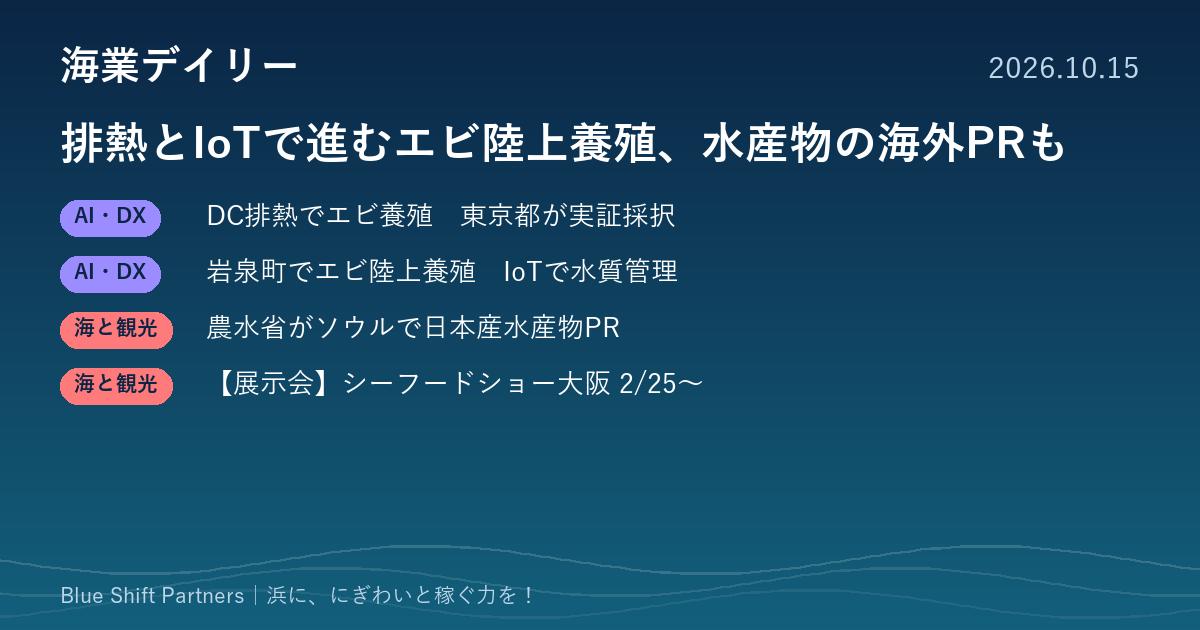
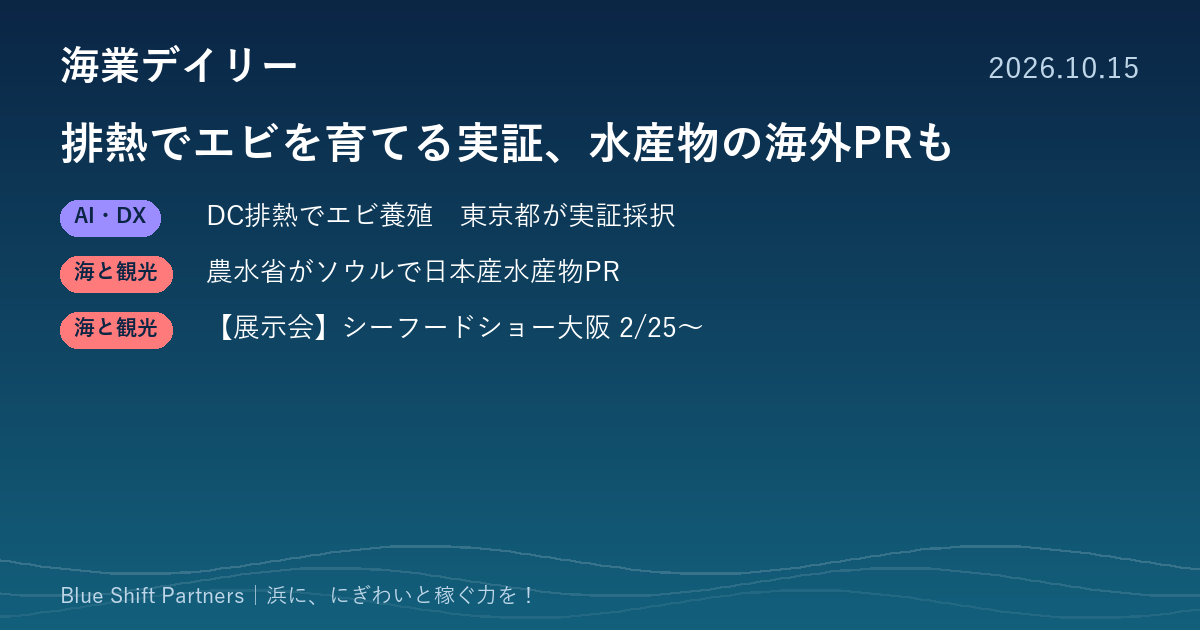
海業デイリー 2026-10-15号を公開（10/10号と重複の記事を削除）

diff --git a/reports/2026-10-15.html b/reports/2026-10-15.html
@@ -1,15 +1,15 @@
 <!doctype html>
 <html lang="ja"><head><meta charset="utf-8">
 <meta name="viewport" content="width=device-width,initial-scale=1">
-<title>排熱とIoTで進むエビ陸上養殖、水産物の海外PRも｜海業デイリー｜ブルーシフト・パートナーズ</title>
-<meta name="description" content="東京都がデータセンターの排熱をエビの陸上養殖に生かす実証を採択し、岩手県岩泉町では漁協の施設でエビ養殖の比較実証が進んでいます。農林水産省はソウルの交流イベントに初めて出展して日本産水産物をPRしました。来年2月のシーフードショー大阪に向けた出展募集の動きもお伝えします。">
+<title>排熱でエビを育てる実証、水産物の海外PRも｜海業デイリー｜ブルーシフト・パートナーズ</title>
+<meta name="description" content="東京都がデータセンターの排熱をエビの陸上養殖に生かす実証を採択しました。農林水産省はソウルの交流イベントに初めて出展して日本産水産物をPRしています。来年2月のシーフードショー大阪に向けた出展募集の動きもお伝えします。">
 <link rel="canonical" href="https://blueshift-partners.com/reports/2026-10-15.html">
-<meta property="og:title" content="排熱とIoTで進むエビ陸上養殖、水産物の海外PRも｜海業デイリー｜ブルーシフト・パートナーズ"><meta property="og:description" content="東京都がデータセンターの排熱をエビの陸上養殖に生かす実証を採択し、岩手県岩泉町では漁協の施設でエビ養殖の比較実証が進んでいます。農林水産省はソウルの交流イベントに初めて出展して日本産水産物をPRしました。来年2月のシーフードショー大阪に向けた出展募集の動きもお伝えします。"><meta property="og:image" content="https://blueshift-partners.com/img/2026-10-15.png">
+<meta property="og:title" content="排熱でエビを育てる実証、水産物の海外PRも｜海業デイリー｜ブルーシフト・パートナーズ"><meta property="og:description" content="東京都がデータセンターの排熱をエビの陸上養殖に生かす実証を採択しました。農林水産省はソウルの交流イベントに初めて出展して日本産水産物をPRしています。来年2月のシーフードショー大阪に向けた出展募集の動きもお伝えします。"><meta property="og:image" content="https://blueshift-partners.com/img/2026-10-15.png">
 <meta property="og:type" content="article">
 <meta property="og:url" content="https://blueshift-partners.com/reports/2026-10-15.html">
 <meta property="og:site_name" content="ブルーシフト・パートナーズ"><meta property="og:locale" content="ja_JP">
 <meta name="twitter:card" content="summary_large_image">
-<script type="application/ld+json">{"@context": "https://schema.org", "@type": "NewsArticle", "headline": "排熱とIoTで進むエビ陸上養殖、水産物の海外PRも", "description": "東京都がデータセンターの排熱をエビの陸上養殖に生かす実証を採択し、岩手県岩泉町では漁協の施設でエビ養殖の比較実証が進んでいます。農林水産省はソウルの交流イベントに初めて出展して日本産水産物をPRしました。来年2月のシーフードショー大阪に向けた出展募集の動きもお伝えします。", "datePublished": "2026-10-15", "dateModified": "2026-10-15", "image": ["https://blueshift-partners.com/img/2026-10-15.png"], "author": {"@type": "Person", "name": "小櫃 博"}, "publisher": {"@type": "Organization", "name": "ブルーシフト・パートナーズ", "logo": {"@type": "ImageObject", "url": "https://blueshift-partners.com/img/logo.png"}}, "mainEntityOfPage": "https://blueshift-partners.com/reports/2026-10-15.html", "inLanguage": "ja"}</script>
+<script type="application/ld+json">{"@context": "https://schema.org", "@type": "NewsArticle", "headline": "排熱でエビを育てる実証、水産物の海外PRも", "description": "東京都がデータセンターの排熱をエビの陸上養殖に生かす実証を採択しました。農林水産省はソウルの交流イベントに初めて出展して日本産水産物をPRしています。来年2月のシーフードショー大阪に向けた出展募集の動きもお伝えします。", "datePublished": "2026-10-15", "dateModified": "2026-10-15", "image": ["https://blueshift-partners.com/img/2026-10-15.png"], "author": {"@type": "Person", "name": "小櫃 博"}, "publisher": {"@type": "Organization", "name": "ブルーシフト・パートナーズ", "logo": {"@type": "ImageObject", "url": "https://blueshift-partners.com/img/logo.png"}}, "mainEntityOfPage": "https://blueshift-partners.com/reports/2026-10-15.html", "inLanguage": "ja"}</script>
 <link rel="icon" href="../img/favicon-32.png" sizes="32x32">
 <link rel="apple-touch-icon" href="../img/favicon-180.png">
 <link rel="stylesheet" href="../style.css">
@@ -21,23 +21,15 @@
 </div></header>
 <nav class="tabs"><div class="in"><a href="../index.html" class="">ホーム</a><a href="../about.html" class="">オフィス紹介</a><a href="../services.html" class="">サービス内容</a><a href="../works.html" class="">活動実績</a><a href="../note.html" class="">note</a><a href="../contact.html" class="">お問い合わせ</a><a href="../hiro.html" class="">HIRO経営コンサルティング</a></div></nav>
 
-<main><p class="src">2026.10.15</p><h1 class="page">排熱とIoTで進むエビ陸上養殖、水産物の海外PRも</h1>
-<img class="card" src="../img/2026-10-15.png" alt="排熱とIoTで進むエビ陸上養殖、水産物の海外PRも">
-<p class="lead">東京都がデータセンターの排熱をエビの陸上養殖に生かす実証を採択し、岩手県岩泉町では漁協の施設でエビ養殖の比較実証が進んでいます。農林水産省はソウルの交流イベントに初めて出展して日本産水産物をPRしました。来年2月のシーフードショー大阪に向けた出展募集の動きもお伝えします。</p>
+<main><p class="src">2026.10.15</p><h1 class="page">排熱でエビを育てる実証、水産物の海外PRも</h1>
+<img class="card" src="../img/2026-10-15.png" alt="排熱でエビを育てる実証、水産物の海外PRも">
+<p class="lead">東京都がデータセンターの排熱をエビの陸上養殖に生かす実証を採択しました。農林水産省はソウルの交流イベントに初めて出展して日本産水産物をPRしています。来年2月のシーフードショー大阪に向けた出展募集の動きもお伝えします。</p>
 <section class="item">
 <span class="chip" style="background:#9B8CFF">水産×AI・DX</span>
 <h3>東京都、データセンターの排熱でバナメイエビを育てる陸上養殖の実証を採択</h3>
 <p>東京都環境局は10月6日、データセンターの排熱など未利用熱の活用をめざす「スタートアップによる未利用熱活用促進事業」で3件の協業プロジェクトを採択したと発表しました。その1件が、IMTエンジニアリングとNTTドコモビジネスによる「排熱活用型陸上養殖システムの構築」で、排熱を加温の熱源にしてバナメイエビの飼育を実証します。水温の安定やエネルギーコストの削減効果を数値で確かめ、排熱の条件から養殖施設の規模を決める設計手法をつくり、ほかのデータセンターへの展開をめざすとしています。プロジェクトは10月に始まり、令和9年3月に中間報告、令和10年3月に最終報告の予定です。</p>
 <p class="point"><b>ここがポイント：</b>陸上養殖の大きな負担である加温コストを、近くの施設の排熱でまかなう発想です。漁港周辺の工場や発電所など、地域にある熱源と養殖を組み合わせる検討のヒントになります。</p>
 <p class="src">出典：<a href="https://www.metro.tokyo.lg.jp/information/press/2026/10/2026100610" target="_blank" rel="noopener">東京都環境局「データセンター排熱の新たな活用に取り組む3つの協業プロジェクトを採択」</a>（2026-10-06）</p>
-
-</section>
-<section class="item">
-<span class="chip" style="background:#9B8CFF">水産×AI・DX</span>
-<h3>岩手県岩泉町の小本浜漁協で、クルマエビとバナメイエビの陸上養殖を比較する実証</h3>
-<p>CMエンジニアリングは10月5日、岩手県岩泉町の小本浜漁業協同組合で、クルマエビとバナメイエビの陸上養殖の実証が本格的に始まったと発表しました。東日本大震災の津波で被災した旧小本保育園の建物を活用し、Seasideが監修した加温・減温機能つきの養殖槽で、寒冷地での両種の生育を比べます。CMエンジニアリングは水温・pH・溶存酸素をクラウドで見える化するIoTの水質モニタリングを提供しています。</p>
-<p class="point"><b>ここがポイント：</b>漁協が使われなくなった建物を生かして新しい水産事業を試す例です。少ない人手で水質を見守るIoTの使い方は、ほかの浜で養殖を検討するときの参考になります。</p>
-<p class="src">出典：<a href="https://agri.mynavi.jp/prtimes/2026_10_05_602967/" target="_blank" rel="noopener">CMエンジニアリング株式会社 プレスリリース（PR TIMES配信、マイナビ農業掲載）</a>（2026-10-05）</p>
 
 </section>
 <section class="item">
@@ -56,7 +48,7 @@
 <p class="src">出典：<a href="https://www.pref.miyagi.jp/soshiki/suishin/seafood-show-osaka24.html" target="_blank" rel="noopener">宮城県 水産業振興課「第24回『シーフードショー大阪』宮城県ブース出展者を募集します」</a>（2026-10-08）</p>
 
 </section>
-<div class="comment"><b>参謀のひとこと</b><p>陸上養殖は、熱と水の管理にかかる費用をどう抑えるかが採算の分かれ目です。地域の排熱や空き施設、IoTといった手元の資源を組み合わせる発想は、浜の新しい稼ぎ口を考えるうえで大きなヒントになります。</p></div>
+<div class="comment"><b>参謀のひとこと</b><p>陸上養殖は、水温を保つ熱の費用をどう抑えるかが採算の分かれ目です。地域にある排熱や空き施設といった手元の資源を組み合わせる発想は、浜の新しい稼ぎ口を考えるうえで大きなヒントになります。</p></div>
 <p><a href="../daily.html">← 海業デイリー一覧へ戻る</a></p></main>
 <footer><div class="in">
 <b>ブルーシフト・パートナーズ</b>（中小企業診断士 小櫃 博）

diff --git a/daily-ai-dx.html b/daily-ai-dx.html
@@ -21,22 +21,13 @@
 </div></header>
 <nav class="tabs"><div class="in"><a href="index.html" class="">ホーム</a><a href="about.html" class="">オフィス紹介</a><a href="services.html" class="">サービス内容</a><a href="works.html" class="">活動実績</a><a href="note.html" class="">note</a><a href="contact.html" class="">お問い合わせ</a><a href="hiro.html" class="">HIRO経営コンサルティング</a></div></nav>
 
-<main><h1 class="page">海業デイリー：水産×AI・DX</h1><p class="lead">海業・水産・漁村観光のニュースをお届けします。制度や公募の情報は、出典にあたって確認したうえで掲載しています。</p><div class="cats"><a href="daily.html" class="cat " style="--c:#0B2545">すべて</a><a href="daily-seido.html" class="cat " style="--c:#F2A541">制度・公募・補助金<span>10</span></a><a href="daily-zenkoku.html" class="cat " style="--c:#1B98E0">全国の海業<span>21</span></a><a href="daily-ai-dx.html" class="cat on" style="--c:#9B8CFF">水産×AI・DX<span>15</span></a><a href="daily-umi-kanko.html" class="cat " style="--c:#FF7B7B">海の食・マリンスポーツ・漁村観光<span>25</span></a></div><h3>水産×AI・DX（15件）</h3><section class="item">
+<main><h1 class="page">海業デイリー：水産×AI・DX</h1><p class="lead">海業・水産・漁村観光のニュースをお届けします。制度や公募の情報は、出典にあたって確認したうえで掲載しています。</p><div class="cats"><a href="daily.html" class="cat " style="--c:#0B2545">すべて</a><a href="daily-seido.html" class="cat " style="--c:#F2A541">制度・公募・補助金<span>10</span></a><a href="daily-zenkoku.html" class="cat " style="--c:#1B98E0">全国の海業<span>21</span></a><a href="daily-ai-dx.html" class="cat on" style="--c:#9B8CFF">水産×AI・DX<span>14</span></a><a href="daily-umi-kanko.html" class="cat " style="--c:#FF7B7B">海の食・マリンスポーツ・漁村観光<span>25</span></a></div><h3>水産×AI・DX（14件）</h3><section class="item">
 <span class="chip" style="background:#9B8CFF">水産×AI・DX</span>
 <span class="src"> 2026.10.15の記事より</span>
 <h3>東京都、データセンターの排熱でバナメイエビを育てる陸上養殖の実証を採択</h3>
 <p>東京都環境局は10月6日、データセンターの排熱など未利用熱の活用をめざす「スタートアップによる未利用熱活用促進事業」で3件の協業プロジェクトを採択したと発表しました。その1件が、IMTエンジニアリングとNTTドコモビジネスによる「排熱活用型陸上養殖システムの構築」で、排熱を加温の熱源にしてバナメイエビの飼育を実証します。水温の安定やエネルギーコストの削減効果を数値で確かめ、排熱の条件から養殖施設の規模を決める設計手法をつくり、ほかのデータセンターへの展開をめざすとしています。プロジェクトは10月に始まり、令和9年3月に中間報告、令和10年3月に最終報告の予定です。</p>
 <p class="point"><b>ここがポイント：</b>陸上養殖の大きな負担である加温コストを、近くの施設の排熱でまかなう発想です。漁港周辺の工場や発電所など、地域にある熱源と養殖を組み合わせる検討のヒントになります。</p>
 <p class="src">出典：<a href="https://www.metro.tokyo.lg.jp/information/press/2026/10/2026100610" target="_blank" rel="noopener">東京都環境局「データセンター排熱の新たな活用に取り組む3つの協業プロジェクトを採択」</a>（2026-10-06）
-　／　<a href="reports/2026-10-15.html">この日の記事を読む</a></p>
-</section>
-<section class="item">
-<span class="chip" style="background:#9B8CFF">水産×AI・DX</span>
-<span class="src"> 2026.10.15の記事より</span>
-<h3>岩手県岩泉町の小本浜漁協で、クルマエビとバナメイエビの陸上養殖を比較する実証</h3>
-<p>CMエンジニアリングは10月5日、岩手県岩泉町の小本浜漁業協同組合で、クルマエビとバナメイエビの陸上養殖の実証が本格的に始まったと発表しました。東日本大震災の津波で被災した旧小本保育園の建物を活用し、Seasideが監修した加温・減温機能つきの養殖槽で、寒冷地での両種の生育を比べます。CMエンジニアリングは水温・pH・溶存酸素をクラウドで見える化するIoTの水質モニタリングを提供しています。</p>
-<p class="point"><b>ここがポイント：</b>漁協が使われなくなった建物を生かして新しい水産事業を試す例です。少ない人手で水質を見守るIoTの使い方は、ほかの浜で養殖を検討するときの参考になります。</p>
-<p class="src">出典：<a href="https://agri.mynavi.jp/prtimes/2026_10_05_602967/" target="_blank" rel="noopener">CMエンジニアリング株式会社 プレスリリース（PR TIMES配信、マイナビ農業掲載）</a>（2026-10-05）
 　／　<a href="reports/2026-10-15.html">この日の記事を読む</a></p>
 </section>
 <section class="item">

diff --git a/index.html b/index.html
@@ -64,13 +64,13 @@
 </div>
 <div class="note"><b>対応可能地域：</b>関東近郊を中心に、全国の漁港・漁村・離島のご相談に応じます。<br>
 <b>ご相談先：</b>漁業協同組合、自治体、観光協会・DMO、海業推進協議会、水産加工・飲食・宿泊・マリンスポーツの事業者などのみなさま。</div>
-<h3>新着情報</h3><ul class="news"><li><span class="d">2026.10.15</span><span class="k" style="background:#8DA9C4">海業デイリー</span><span class="t"><a href="reports/2026-10-15.html">排熱とIoTで進むエビ陸上養殖、水産物の海外PRも</a></span></li>
+<h3>新着情報</h3><ul class="news"><li><span class="d">2026.10.15</span><span class="k" style="background:#8DA9C4">海業デイリー</span><span class="t"><a href="reports/2026-10-15.html">排熱でエビを育てる実証、水産物の海外PRも</a></span></li>
 <li><span class="d">2026.10.14</span><span class="k" style="background:#8DA9C4">海業デイリー</span><span class="t"><a href="reports/2026-10-14.html">厄介者の外来魚を商品に、霞ヶ浦の試みと米国の水産展示会</a></span></li>
 <li><span class="d">2026.10.13</span><span class="k" style="background:#8DA9C4">海業デイリー</span><span class="t"><a href="reports/2026-10-13.html">海の新展示会「OXExpo」、11月に横浜で初開催</a></span></li>
 <li><span class="d">2026.10.12</span><span class="k" style="background:#8DA9C4">海業デイリー</span><span class="t"><a href="reports/2026-10-12.html">愛南町が海業振興の補助を随時受付、ホタテ貝殻素材は鮮度保持の官民WTへ</a></span></li>
 <li><span class="d">2026.10.02</span><span class="k" style="background:#13607C">お知らせ</span><span class="t"><a href="https://umigyo-portal.jp/private_company/company_id/41/">水産庁の「官民連携海業振興ポータルサイト」に、海業振興に賛同する民間事業者として掲載されました。</a></span></li>
 <li><span class="d">2026.09.20</span><span class="k" style="background:#13607C">お知らせ</span><span class="t"><a href="daily.html">「海業デイリー」をカテゴリー別に読めるようにしました。</a></span></li>
-<li><span class="d">2026.09.19</span><span class="k" style="background:#13607C">お知らせ</span><span class="t"><a href="contact.html">ホームページを公開しました。海業のご相談を受け付けています。</a></span></li></ul><h3>海業デイリー</h3><p>海業・水産・漁村観光のニュースをお届けしています。</p><div class="list"><a class="entry" href="reports/2026-10-15.html"><img src="img/2026-10-15.png" alt=""><div><div class="date">2026.10.15</div><div class="t">排熱とIoTで進むエビ陸上養殖、水産物の海外PRも</div></div></a>
+<li><span class="d">2026.09.19</span><span class="k" style="background:#13607C">お知らせ</span><span class="t"><a href="contact.html">ホームページを公開しました。海業のご相談を受け付けています。</a></span></li></ul><h3>海業デイリー</h3><p>海業・水産・漁村観光のニュースをお届けしています。</p><div class="list"><a class="entry" href="reports/2026-10-15.html"><img src="img/2026-10-15.png" alt=""><div><div class="date">2026.10.15</div><div class="t">排熱でエビを育てる実証、水産物の海外PRも</div></div></a>
 <a class="entry" href="reports/2026-10-14.html"><img src="img/2026-10-14.png" alt=""><div><div class="date">2026.10.14</div><div class="t">厄介者の外来魚を商品に、霞ヶ浦の試みと米国の水産展示会</div></div></a>
 <a class="entry" href="reports/2026-10-13.html"><img src="img/2026-10-13.png" alt=""><div><div class="date">2026.10.13</div><div class="t">海の新展示会「OXExpo」、11月に横浜で初開催</div></div></a></div><p><a href="daily.html">過去の記事をすべて見る →</a></p><div class="cta"><h3>まずはご相談ください</h3>
 <p>「何から始めればよいか分からない」という段階でも構いません。初回のご相談は無料です。<br>

diff --git a/daily.html b/daily.html
@@ -21,7 +21,7 @@
 </div></header>
 <nav class="tabs"><div class="in"><a href="index.html" class="">ホーム</a><a href="about.html" class="">オフィス紹介</a><a href="services.html" class="">サービス内容</a><a href="works.html" class="">活動実績</a><a href="note.html" class="">note</a><a href="contact.html" class="">お問い合わせ</a><a href="hiro.html" class="">HIRO経営コンサルティング</a></div></nav>
 
-<main><h1 class="page">海業デイリー</h1><p class="lead">海業・水産・漁村観光のニュースをお届けします。制度や公募の情報は、出典にあたって確認したうえで掲載しています。</p><div class="cats"><a href="daily.html" class="cat on" style="--c:#0B2545">すべて</a><a href="daily-seido.html" class="cat " style="--c:#F2A541">制度・公募・補助金<span>10</span></a><a href="daily-zenkoku.html" class="cat " style="--c:#1B98E0">全国の海業<span>21</span></a><a href="daily-ai-dx.html" class="cat " style="--c:#9B8CFF">水産×AI・DX<span>15</span></a><a href="daily-umi-kanko.html" class="cat " style="--c:#FF7B7B">海の食・マリンスポーツ・漁村観光<span>25</span></a></div><h3>日付別</h3><div class="list"><a class="entry" href="reports/2026-10-15.html"><img src="img/2026-10-15.png" alt=""><div><div class="date">2026.10.15</div><div class="t">排熱とIoTで進むエビ陸上養殖、水産物の海外PRも</div></div></a>
+<main><h1 class="page">海業デイリー</h1><p class="lead">海業・水産・漁村観光のニュースをお届けします。制度や公募の情報は、出典にあたって確認したうえで掲載しています。</p><div class="cats"><a href="daily.html" class="cat on" style="--c:#0B2545">すべて</a><a href="daily-seido.html" class="cat " style="--c:#F2A541">制度・公募・補助金<span>10</span></a><a href="daily-zenkoku.html" class="cat " style="--c:#1B98E0">全国の海業<span>21</span></a><a href="daily-ai-dx.html" class="cat " style="--c:#9B8CFF">水産×AI・DX<span>14</span></a><a href="daily-umi-kanko.html" class="cat " style="--c:#FF7B7B">海の食・マリンスポーツ・漁村観光<span>25</span></a></div><h3>日付別</h3><div class="list"><a class="entry" href="reports/2026-10-15.html"><img src="img/2026-10-15.png" alt=""><div><div class="date">2026.10.15</div><div class="t">排熱でエビを育てる実証、水産物の海外PRも</div></div></a>
 <a class="entry" href="reports/2026-10-14.html"><img src="img/2026-10-14.png" alt=""><div><div class="date">2026.10.14</div><div class="t">厄介者の外来魚を商品に、霞ヶ浦の試みと米国の水産展示会</div></div></a>
 <a class="entry" href="reports/2026-10-13.html"><img src="img/2026-10-13.png" alt=""><div><div class="date">2026.10.13</div><div class="t">海の新展示会「OXExpo」、11月に横浜で初開催</div></div></a>
 <a class="entry" href="reports/2026-10-12.html"><img src="img/2026-10-12.png" alt=""><div><div class="date">2026.10.12</div><div class="t">愛南町が海業振興の補助を随時受付、ホタテ貝殻素材は鮮度保持の官民WTへ</div></div></a>

diff --git a/daily-umi-kanko.html b/daily-umi-kanko.html
@@ -21,7 +21,7 @@
 </div></header>
 <nav class="tabs"><div class="in"><a href="index.html" class="">ホーム</a><a href="about.html" class="">オフィス紹介</a><a href="services.html" class="">サービス内容</a><a href="works.html" class="">活動実績</a><a href="note.html" class="">note</a><a href="contact.html" class="">お問い合わせ</a><a href="hiro.html" class="">HIRO経営コンサルティング</a></div></nav>
 
-<main><h1 class="page">海業デイリー：海の食・マリンスポーツ・漁村観光</h1><p class="lead">海業・水産・漁村観光のニュースをお届けします。制度や公募の情報は、出典にあたって確認したうえで掲載しています。</p><div class="cats"><a href="daily.html" class="cat " style="--c:#0B2545">すべて</a><a href="daily-seido.html" class="cat " style="--c:#F2A541">制度・公募・補助金<span>10</span></a><a href="daily-zenkoku.html" class="cat " style="--c:#1B98E0">全国の海業<span>21</span></a><a href="daily-ai-dx.html" class="cat " style="--c:#9B8CFF">水産×AI・DX<span>15</span></a><a href="daily-umi-kanko.html" class="cat on" style="--c:#FF7B7B">海の食・マリンスポーツ・漁村観光<span>25</span></a></div><h3>海の食・マリンスポーツ・漁村観光（25件）</h3><section class="item">
+<main><h1 class="page">海業デイリー：海の食・マリンスポーツ・漁村観光</h1><p class="lead">海業・水産・漁村観光のニュースをお届けします。制度や公募の情報は、出典にあたって確認したうえで掲載しています。</p><div class="cats"><a href="daily.html" class="cat " style="--c:#0B2545">すべて</a><a href="daily-seido.html" class="cat " style="--c:#F2A541">制度・公募・補助金<span>10</span></a><a href="daily-zenkoku.html" class="cat " style="--c:#1B98E0">全国の海業<span>21</span></a><a href="daily-ai-dx.html" class="cat " style="--c:#9B8CFF">水産×AI・DX<span>14</span></a><a href="daily-umi-kanko.html" class="cat on" style="--c:#FF7B7B">海の食・マリンスポーツ・漁村観光<span>25</span></a></div><h3>海の食・マリンスポーツ・漁村観光（25件）</h3><section class="item">
 <span class="chip" style="background:#FF7B7B">海の食・マリンスポーツ・漁村観光</span>
 <span class="src"> 2026.10.15の記事より</span>
 <h3>農林水産省、ソウルの「日韓交流おまつり」に初出展し日本産水産物をPR</h3>

diff --git a/daily-seido.html b/daily-seido.html
@@ -21,7 +21,7 @@
 </div></header>
 <nav class="tabs"><div class="in"><a href="index.html" class="">ホーム</a><a href="about.html" class="">オフィス紹介</a><a href="services.html" class="">サービス内容</a><a href="works.html" class="">活動実績</a><a href="note.html" class="">note</a><a href="contact.html" class="">お問い合わせ</a><a href="hiro.html" class="">HIRO経営コンサルティング</a></div></nav>
 
-<main><h1 class="page">海業デイリー：制度・公募・補助金</h1><p class="lead">海業・水産・漁村観光のニュースをお届けします。制度や公募の情報は、出典にあたって確認したうえで掲載しています。</p><div class="cats"><a href="daily.html" class="cat " style="--c:#0B2545">すべて</a><a href="daily-seido.html" class="cat on" style="--c:#F2A541">制度・公募・補助金<span>10</span></a><a href="daily-zenkoku.html" class="cat " style="--c:#1B98E0">全国の海業<span>21</span></a><a href="daily-ai-dx.html" class="cat " style="--c:#9B8CFF">水産×AI・DX<span>15</span></a><a href="daily-umi-kanko.html" class="cat " style="--c:#FF7B7B">海の食・マリンスポーツ・漁村観光<span>25</span></a></div><h3>制度・公募・補助金（10件）</h3><section class="item">
+<main><h1 class="page">海業デイリー：制度・公募・補助金</h1><p class="lead">海業・水産・漁村観光のニュースをお届けします。制度や公募の情報は、出典にあたって確認したうえで掲載しています。</p><div class="cats"><a href="daily.html" class="cat " style="--c:#0B2545">すべて</a><a href="daily-seido.html" class="cat on" style="--c:#F2A541">制度・公募・補助金<span>10</span></a><a href="daily-zenkoku.html" class="cat " style="--c:#1B98E0">全国の海業<span>21</span></a><a href="daily-ai-dx.html" class="cat " style="--c:#9B8CFF">水産×AI・DX<span>14</span></a><a href="daily-umi-kanko.html" class="cat " style="--c:#FF7B7B">海の食・マリンスポーツ・漁村観光<span>25</span></a></div><h3>制度・公募・補助金（10件）</h3><section class="item">
 <span class="chip" style="background:#F2A541">制度・公募・補助金</span>
 <span class="src"> 2026.10.11の記事より</span>
 <h3>農林水産省「インバウンド拡大チーム」が支援先の自治体を募集中、第2期は10月30日締切</h3>

diff --git a/daily-zenkoku.html b/daily-zenkoku.html
@@ -21,7 +21,7 @@
 </div></header>
 <nav class="tabs"><div class="in"><a href="index.html" class="">ホーム</a><a href="about.html" class="">オフィス紹介</a><a href="services.html" class="">サービス内容</a><a href="works.html" class="">活動実績</a><a href="note.html" class="">note</a><a href="contact.html" class="">お問い合わせ</a><a href="hiro.html" class="">HIRO経営コンサルティング</a></div></nav>
 
-<main><h1 class="page">海業デイリー：全国の海業</h1><p class="lead">海業・水産・漁村観光のニュースをお届けします。制度や公募の情報は、出典にあたって確認したうえで掲載しています。</p><div class="cats"><a href="daily.html" class="cat " style="--c:#0B2545">すべて</a><a href="daily-seido.html" class="cat " style="--c:#F2A541">制度・公募・補助金<span>10</span></a><a href="daily-zenkoku.html" class="cat on" style="--c:#1B98E0">全国の海業<span>21</span></a><a href="daily-ai-dx.html" class="cat " style="--c:#9B8CFF">水産×AI・DX<span>15</span></a><a href="daily-umi-kanko.html" class="cat " style="--c:#FF7B7B">海の食・マリンスポーツ・漁村観光<span>25</span></a></div><h3>全国の海業（21件）</h3><section class="item">
+<main><h1 class="page">海業デイリー：全国の海業</h1><p class="lead">海業・水産・漁村観光のニュースをお届けします。制度や公募の情報は、出典にあたって確認したうえで掲載しています。</p><div class="cats"><a href="daily.html" class="cat " style="--c:#0B2545">すべて</a><a href="daily-seido.html" class="cat " style="--c:#F2A541">制度・公募・補助金<span>10</span></a><a href="daily-zenkoku.html" class="cat on" style="--c:#1B98E0">全国の海業<span>21</span></a><a href="daily-ai-dx.html" class="cat " style="--c:#9B8CFF">水産×AI・DX<span>14</span></a><a href="daily-umi-kanko.html" class="cat " style="--c:#FF7B7B">海の食・マリンスポーツ・漁村観光<span>25</span></a></div><h3>全国の海業（21件）</h3><section class="item">
 <span class="chip" style="background:#1B98E0">全国の海業</span>
 <span class="src"> 2026.10.12の記事より</span>
 <h3>愛媛県愛南町、海業振興事業支援補助金を令和9年2月26日まで随時受付</h3>
